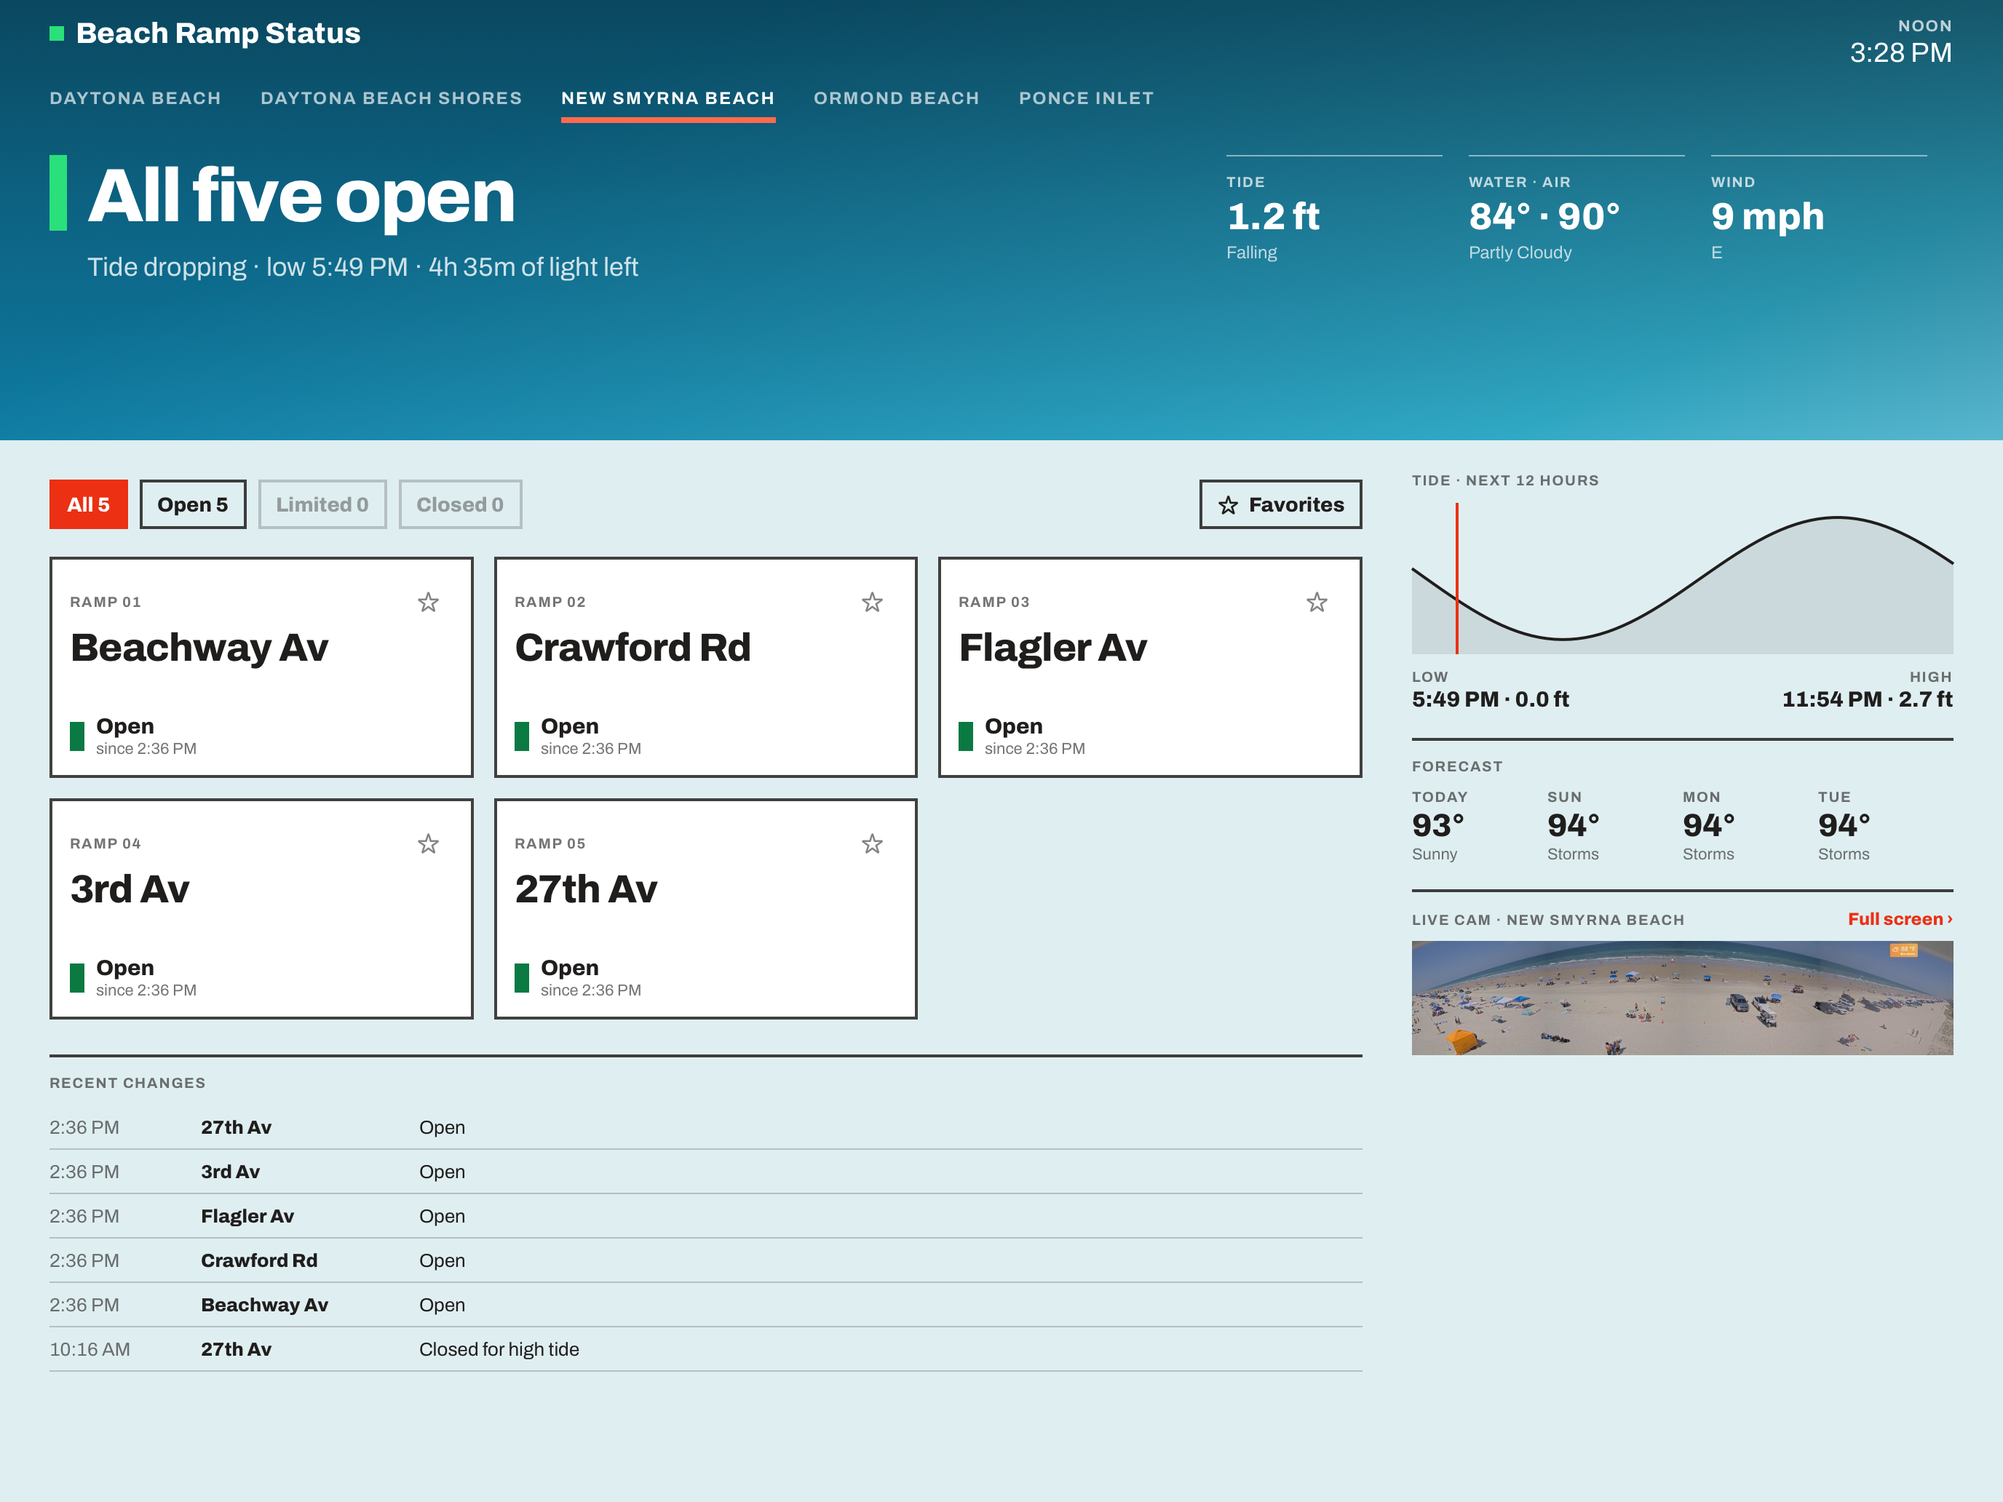
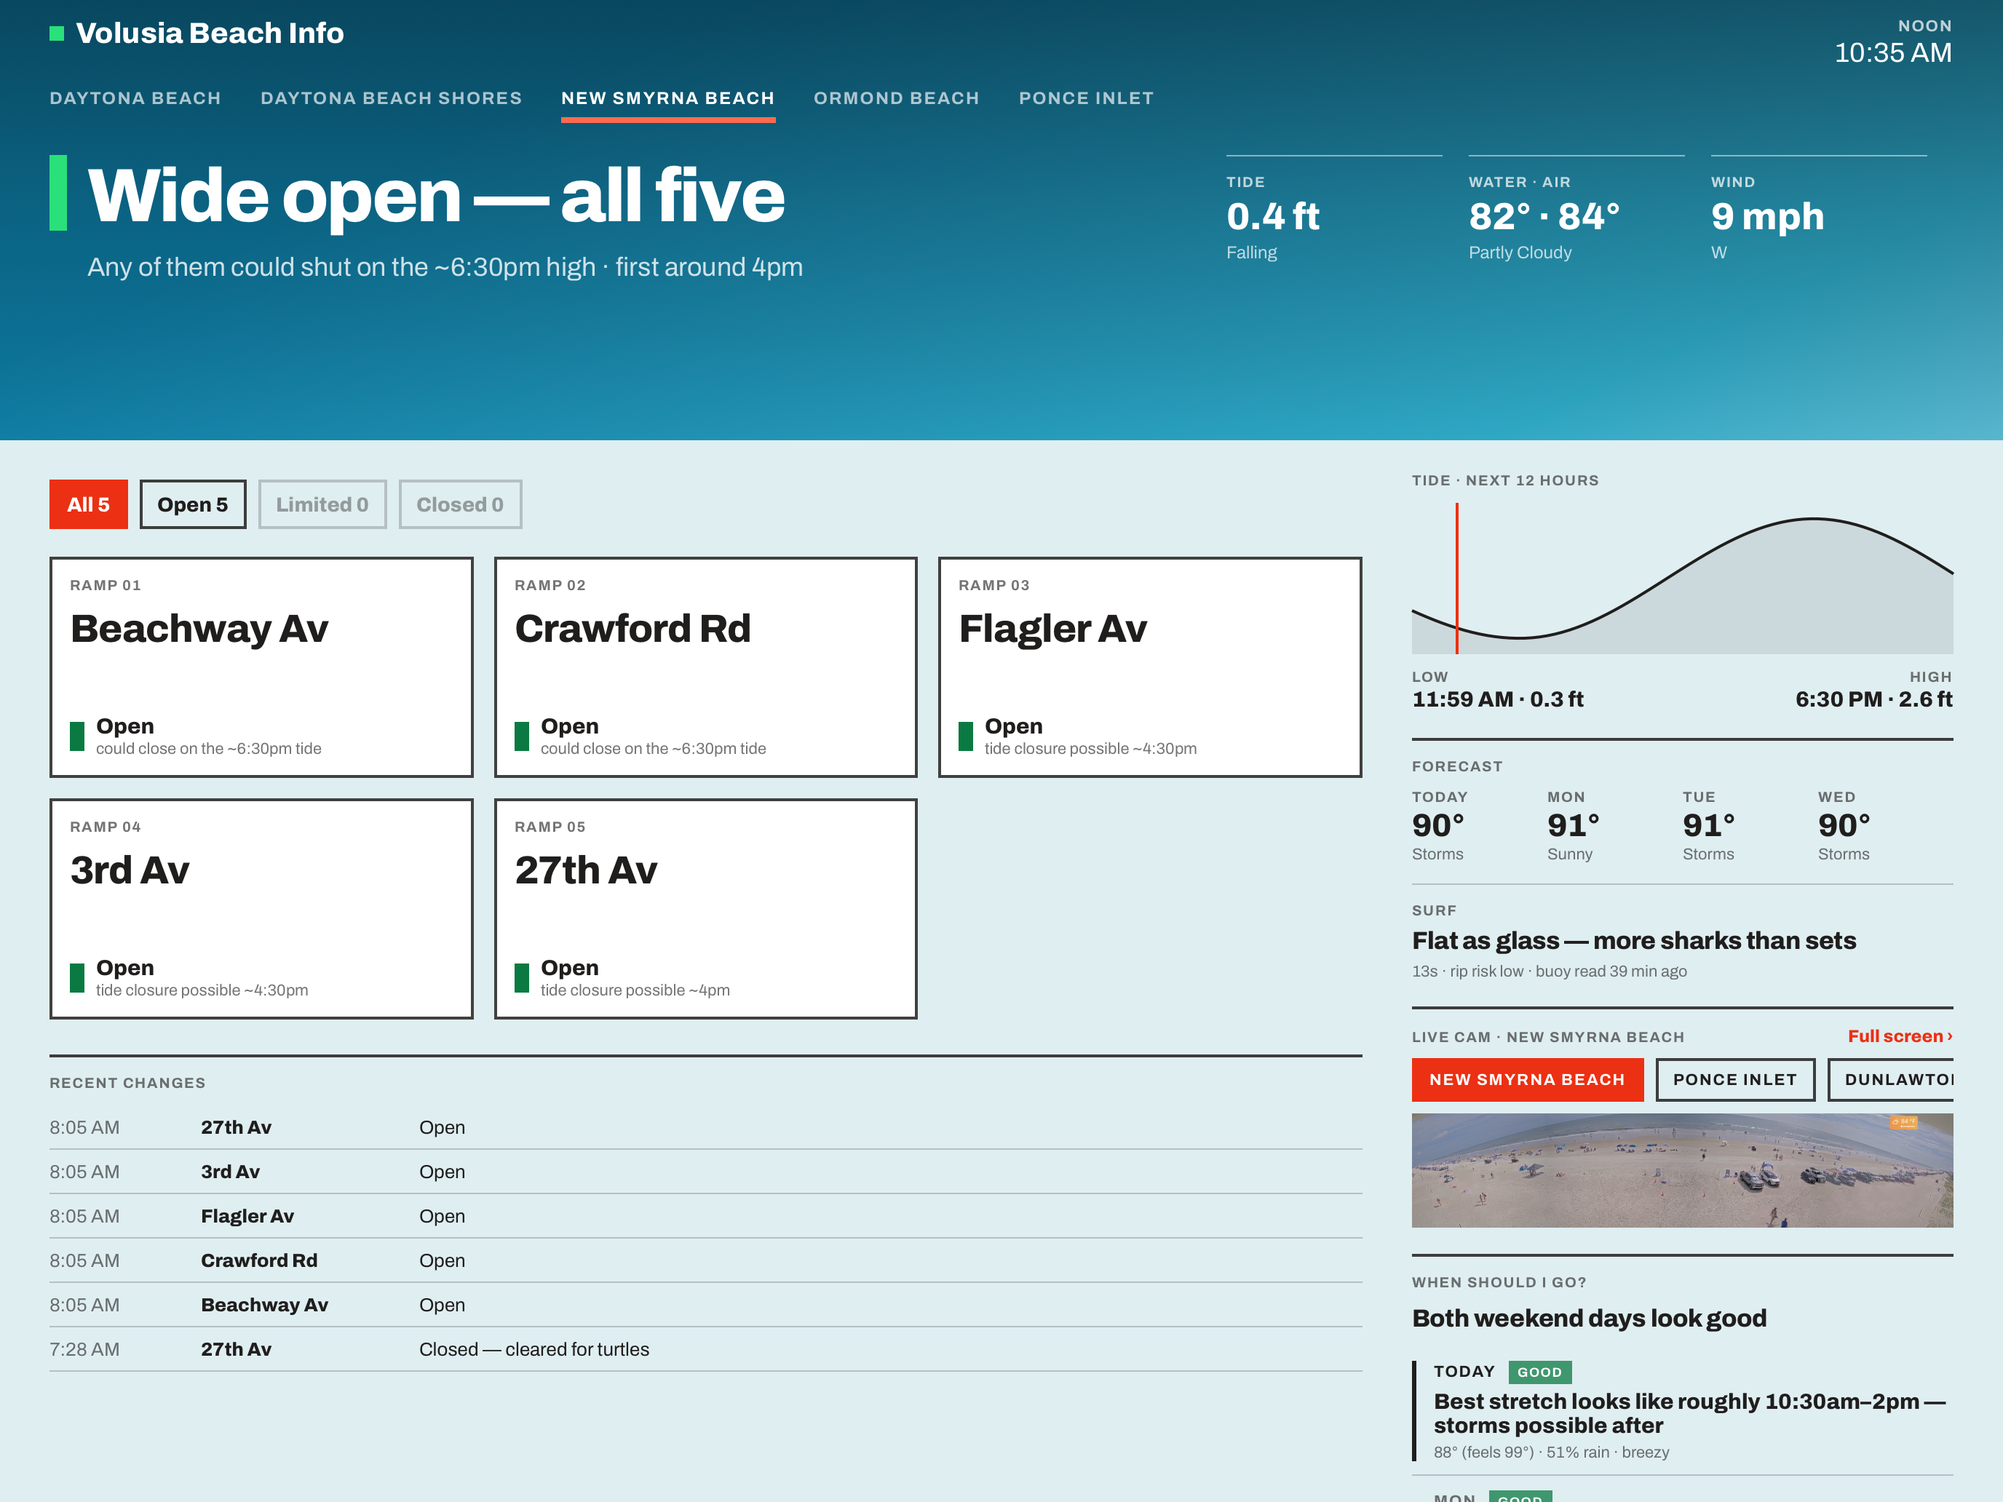
Recapture store screenshots; correct the iOS review state
All eight store shots recaptured from the renamed build — iPhone 6.9 (day,
golden, dawn), iPad 13 (wide, portrait), Apple TV (board, outlook, ramp
detail). They carry the "Volusia Beach Info" wordmark, and the iPad set
also loses the Favorites button that was pulled on 8/21.

Correction, from Don's ASC screenshot: iOS has NEVER been approved. ASC
reads "iOS 1.0 Waiting for Review" / "tvOS 1.1 Ready for Distribution", so
the 8/21 inference that 1.0 was approved held for tvOS only — pre-release
trains are per-platform and the rejection that revealed it was a tvOS
upload. This repo has been recording iOS 1.0 (18) as approved/live since;
it is not, and nothing of this app is public on iPhone yet.

That has teeth for submission: an ASC version numbered 1.0 can only carry a
build whose CFBundleShortVersionString is 1.0, so builds 26/27/28 cannot
attach to the pending 1.0. Either 1.0 ships build 18 as-is, or it comes out
of review and goes back of the queue as 1.2. Both paths are written up in
docs/APP-STORE-LISTING.md, including which screenshot set each one needs.

Also hardens screenshots.sh. The iPad rotate step clicks a Simulator window
by title prefix but captures by udid, so with two iPad sims booted it
rotated the stale one, the target never turned, and the w<h counter-rotation
produced a correctly-sized file with the board lying on its side — which no
dimension check catches. That is exactly what the first run of this pass
[…]

diff --git a/PORTFOLIO-STATUS.md b/PORTFOLIO-STATUS.md
@@ -21,8 +21,18 @@ app_review_state: |
   and BOTH platforms re-flighted under 1.2 to carry the "Volusia Beach Info" rename.
   iOS 1.1 (27) had already uploaded successfully minutes earlier and is now a dead
   build — ignore it in TestFlight.
-  iOS: 1.0 (18) is what is approved/live; 1.1 was uploaded but never submitted, so the
-  iOS listing still shows the build-18 design. The iOS rename ships as 1.2.
+  iOS has NEVER been approved. CONFIRMED IN ASC by Don 2026-08-23 (screenshot):
+  "iOS 1.0 Waiting for Review" / "tvOS 1.1 Ready for Distribution". The 2026-08-21
+  inference that "1.0 (18) is approved" was TRUE ONLY FOR tvOS — pre-release trains
+  are per-platform, and the rejection that revealed it was a tvOS upload. iOS 1.0 (18)
+  has sat in the initial-review queue since 2026-08-18; Apple's first-review queue is
+  badly backed up right now. Nothing of this app is public on iOS yet.
+  CONSEQUENCE, and it is not small: the ASC iOS version record says 1.0, so it can only
+  carry a build whose CFBundleShortVersionString is 1.0 — i.e. build 18. Builds 26, 27,
+  and 28 (1.1/1.2) CANNOT attach to the pending 1.0 submission. If 1.0 is left in the
+  queue it ships the pre-parity, pre-rename build-18 app. Changing it to 1.2 means
+  pulling from review and going to the back of the initial-review queue. Don's call —
+  see open item 0.
   Don notes initial review queues are slow right now (submission volume).
   How we learned 1.0 was approved: 2026-08-21 08:37 ET the tvOS TestFlight upload of 1.0 (25) was
   REJECTED by App Store Connect with "CFBundleShortVersionString [1.0] must contain a
@@ -30,7 +40,8 @@ app_review_state: |
   Pre-Release Train. The train version '1.0' is closed for new build submissions" —
   i.e. Apple has approved version 1.0 (build 18). NOT YET CONFIRMED in ASC by a human:
   Don confirmed 2026-08-21: 1.0 (18) is the only thing Apple has approved — the
-  design that has since been replaced. Submitted 1.1 (25) the same morning (above).
+  design that has since been replaced. NOTE (2026-08-23): that approval was the
+  tvOS 1.0 train only; iOS 1.0 is still Waiting for Review. See above. Submitted 1.1 (25) the same morning (above).
   Consequence already acted on: MARKETING_VERSION is now 1.1 and build
   25 went up under 1.1; every future flight is a 1.1 build. The App Store listing still
   shows the build-18 design (pre-video-first) — the TV screenshots trail by four designs
@@ -50,7 +61,7 @@ app_review_state: |
   watchOS: out of scope for 1.0 — target builds but is excluded from the iOS archive.
 mission_dates: |
   none found — no deadlines in REQUIREMENTS.md, README, or intake dossier
-last_verified: 2026-08-23 10:28 (RELEASE: 1.2 (28) UPLOADED to TestFlight for BOTH iOS and tvOS, both EXPORT SUCCEEDED, tagged flight/build-28. 1.2 listing copy drafted in docs/APP-STORE-LISTING.md. Screenshots still show the pre-rename header — recapture before submitting. RELEASE: tvOS 1.1 (25) is APPROVED — surfaced by the closed-train rejection when flighting, Don to confirm in ASC. MARKETING_VERSION 1.1 → 1.2; both platforms flighted as 1.2 (28) with the rename. NAMING: one-name pass done — "Volusia Beach Info" is now the name on every surface (web title/wordmark/manifest/per-view titles, /county page, iOS + iPadOS + tvOS in-app wordmark, TRMNL template headers, README/REQUIREMENTS/CLAUDE.md). tvOS header band dropped the "Volusia County" subtitle at Don's direction — the wordmark stands alone and that space is reserved for something else. INFOPLIST_KEY_CFBundleDisplayName = "Beach Info" (Don's call — the full 18-char name truncates under the icon); verified in the built Info.plist. iOS/tvOS/watch all BUILD SUCCEEDED, go vet + server tests pass, web verified in-browser. Widget gallery entries renamed off the old app name to "Ramp Board" / "Ramps Open Now" (intent title "Ramp Widget") — Don to veto if unwanted. Apple changes need a flight to reach devices; sw CACHE_NAME v24→v25 and ?v=16→17 bumped for web. API: period-aware rough regime DEPLOYED 7f44672 and verified live — today's buoy 1.31 ft @ 13 s now reads `rough`, NS-141/110/118 "closure possible ~4–4:30pm", NS-106/DBS-075 "could close ~6:30pm" — the same sea state that read quiet yesterday. Review scorecards ~8/30; fallback if over-hedging = "disqualify calm" variant. API: grade-aware shift scans SHIPPED 3312421, prod force-retrained 13:38Z at Don's direction — calm raise 0.45, NS-141/118/110 open-yesterday raise 0.4; today's outlook flipped from "tide closure possible ~3:30pm" to "closes for the day ~6:30pm" on every NS/DBS ramp. First real test: tomorrow's scorecard for 2026-08-22. iOS/iPadOS 1.1 (26) UPLOADED to TestFlight at Don's direction — ASC processing; the iOS 1.1 listing draft (What's New + redrafted description) is in docs/APP-STORE-LISTING.md, ready to paste once the build appears; Don action: submit the iOS 1.1 version in ASC. Web: server city verdict + overnight override deployed; city headline bug fixed server-side; favorites pulled from web, iOS keeps "Pin to widget" only. tvOS 1.1 (25) SUBMITTED for review — see app_review_state. Physical-remote pass on build 24 found one bug: Don
+last_verified: 2026-08-23 10:40 (CORRECTION: iOS has NEVER been approved — ASC screenshot from Don shows "iOS 1.0 Waiting for Review" / "tvOS 1.1 Ready for Distribution". The 8/21 "1.0 approved" read was tvOS-only (trains are per-platform). The pending iOS 1.0 record can only carry build 18, so builds 26/27/28 cannot attach to it — see open item 0 for the fork. SCREENSHOTS: all 8 store shots recaptured 2026-08-23 from the renamed build (iPhone 6.9 x3, iPad 13 x2, Apple TV x3), each verified by eye. RELEASE: 1.2 (28) UPLOADED to TestFlight for BOTH iOS and tvOS, both EXPORT SUCCEEDED, tagged flight/build-28. 1.2 listing copy drafted in docs/APP-STORE-LISTING.md. Screenshots still show the pre-rename header — recapture before submitting. RELEASE: tvOS 1.1 (25) is APPROVED — surfaced by the closed-train rejection when flighting, Don to confirm in ASC. MARKETING_VERSION 1.1 → 1.2; both platforms flighted as 1.2 (28) with the rename. NAMING: one-name pass done — "Volusia Beach Info" is now the name on every surface (web title/wordmark/manifest/per-view titles, /county page, iOS + iPadOS + tvOS in-app wordmark, TRMNL template headers, README/REQUIREMENTS/CLAUDE.md). tvOS header band dropped the "Volusia County" subtitle at Don's direction — the wordmark stands alone and that space is reserved for something else. INFOPLIST_KEY_CFBundleDisplayName = "Beach Info" (Don's call — the full 18-char name truncates under the icon); verified in the built Info.plist. iOS/tvOS/watch all BUILD SUCCEEDED, go vet + server tests pass, web verified in-browser. Widget gallery entries renamed off the old app name to "Ramp Board" / "Ramps Open Now" (intent title "Ramp Widget") — Don to veto if unwanted. Apple changes need a flight to reach devices; sw CACHE_NAME v24→v25 and ?v=16→17 bumped for web. API: period-aware rough regime DEPLOYED 7f44672 and verified live — today's buoy 1.31 ft @ 13 s now reads `rough`, NS-141/110/118 "closure possible ~4–4:30pm", NS-106/DBS-075 "could close ~6:30pm" — the same sea state that read quiet yesterday. Review scorecards ~8/30; fallback if over-hedging = "disqualify calm" variant. API: grade-aware shift scans SHIPPED 3312421, prod force-retrained 13:38Z at Don's direction — calm raise 0.45, NS-141/118/110 open-yesterday raise 0.4; today's outlook flipped from "tide closure possible ~3:30pm" to "closes for the day ~6:30pm" on every NS/DBS ramp. First real test: tomorrow's scorecard for 2026-08-22. iOS/iPadOS 1.1 (26) UPLOADED to TestFlight at Don's direction — ASC processing; the iOS 1.1 listing draft (What's New + redrafted description) is in docs/APP-STORE-LISTING.md, ready to paste once the build appears; Don action: submit the iOS 1.1 version in ASC. Web: server city verdict + overnight override deployed; city headline bug fixed server-side; favorites pulled from web, iOS keeps "Pin to widget" only. tvOS 1.1 (25) SUBMITTED for review — see app_review_state. Physical-remote pass on build 24 found one bug: Don
   loved the layout but could not focus the ramp list — Watching and Beach outlook
   focused fine. Cause: after the turtle-season close the ledger swapped the ramp
   list for an "Overnight · All cities" roll-up that was built non-focusable, so
@@ -238,7 +249,7 @@ prior_2026_08_18: (SUBMITTED FOR APP REVIEW — build 1.0 (18), first submission
 ---
 
 ## Top open items
-0. App Store — tvOS 1.1 (25) APPROVED (learned 2026-08-23 via the closed-train rejection; Don to confirm in ASC). iOS is still on 1.0 (18) approved — 1.1 was uploaded, never submitted. BOTH platforms flighted as 1.2 (28) on 2026-08-23 carrying the "Volusia Beach Info" rename. DON ACTION: submit 1.2 on both tracks — the 1.2 listing copy is drafted and measured in docs/APP-STORE-LISTING.md (iOS 1.2 What's New 1306 chars, tvOS 621, limit 4000; descriptions carry over from the 1.1 drafts unchanged). Note the iOS What's New spans 1.0 → 1.2 because 1.1 was never submitted. BLOCKER-ISH: every checked-in screenshot set predates the rename and shows "Beach Ramp Status" in the header — mismatched against the binary on both tracks, and name proximity to the county app is already the flagged 4.1/2.3.8 risk. Recapture with apple/scripts/screenshots.sh before submitting.
+0. App Store — tvOS 1.1 (25) APPROVED (learned 2026-08-23 via the closed-train rejection; Don to confirm in ASC). iOS has NEVER been approved — ASC shows "iOS 1.0 Waiting for Review" (confirmed by Don 2026-08-23); the 8/21 "1.0 approved" read was tvOS-only.  BOTH platforms flighted as 1.2 (28) on 2026-08-23 carrying the "Volusia Beach Info" rename. DON ACTION: submit 1.2 on both tracks — the 1.2 listing copy is drafted and measured in docs/APP-STORE-LISTING.md (iOS 1.2 What's New 1306 chars, tvOS 621, limit 4000; descriptions carry over from the 1.1 drafts unchanged). Note the iOS What's New spans 1.0 → 1.2 because 1.1 was never submitted. BLOCKER-ISH: every checked-in screenshot set predates the rename and shows "Beach Ramp Status" in the header — mismatched against the binary on both tracks, and name proximity to the county app is already the flagged 4.1/2.3.8 risk. Recapture with apple/scripts/screenshots.sh before submitting.
    Metadata as submitted is checked in at docs/APP-STORE-LISTING.md; /privacy and
    /support are live and verified. Screenshots done for iPhone 6.9", iPad 13", and
    Apple TV (3840x2160, design/app-store-screenshots/appletv/). If review comes back

diff --git a/docs/APP-STORE-LISTING.md b/docs/APP-STORE-LISTING.md
@@ -265,11 +265,28 @@ Promotional text, keywords, URLs, copyright: unchanged from tvOS 1.0.
 
 ## Version metadata — iOS / iPadOS 1.2 (build 28, drafted 2026-08-23)
 
-**This is the one to submit on the iOS track.** Read the delta carefully: iOS is
-still live on **1.0 (18)**. The 1.1 parity build was uploaded twice (26 on 8/21,
-27 on 8/23) and never submitted, so from a customer's point of view 1.2 carries
-*everything* since 1.0 — the whole parity pass **and** the rename. That is why the
-What's New below is the 1.1 draft plus two lines, not a rename note on its own.
+**Read this before pasting anything on the iOS track.** ASC on 2026-08-23 shows
+**"iOS 1.0 Waiting for Review"** — iOS has never been approved and nothing of this
+app is public on iPhone yet. (The 8/21 "1.0 is approved" reading was tvOS-only;
+pre-release trains are per-platform and the rejection that revealed it was a tvOS
+upload.) 1.0 (18) has been in the initial-review queue since 8/18.
+
+That creates a fork, because an ASC version record numbered 1.0 can only carry a
+build whose `CFBundleShortVersionString` is 1.0 — build 18. **Builds 26, 27, and 28
+cannot attach to the pending 1.0 submission.** So either:
+
+- **Leave 1.0 in the queue.** Keeps a five-day-old place in a badly backed-up
+  initial-review line, but the first public iOS release is build 18: the pre-parity
+  design, the old "Beach Ramp Status" wordmark, no weekend outlook, no surf line.
+  The gallery must then keep the *old* screenshots, which match build 18.
+- **Pull 1.0 from review, renumber the version to 1.2, attach build 28, resubmit.**
+  First impression is the current app with the right name, and the new screenshots
+  fit — at the cost of going to the back of the initial-review queue.
+
+The What's New below is written for the second path. It carries *everything* since
+1.0, because 1.1 was never submitted — the 1.1 draft plus two lines, not a rename
+note on its own. If you take the first path instead, this section waits until 1.0
+clears and then ships immediately after.
 
 Also folded in: the closure outlook got materially better between 8/21 and 8/23
 (persistence prior, grade-aware shift scans, period-aware wave regime). That work
@@ -327,19 +344,22 @@ Ramp status still comes straight from the county's feed, refreshed every minute.
 Unchanged from the 1.1 draft above (§"Description (redrafted for 1.1)" under tvOS
 1.1). Promotional text, keywords, URLs, copyright: unchanged from tvOS 1.0.
 
-### Screenshots — CHECK BEFORE SUBMITTING
+### Screenshots
 
-Every checked-in screenshot set predates the rename, so the header in them reads
-"Beach Ramp Status · Volusia County" while the app now reads "Volusia Beach Info".
-That is a visible mismatch between the gallery and the binary on both tracks:
+**Recaptured 2026-08-23** from the renamed build, all eight verified by eye:
 
-- `design/app-store-screenshots/appletv/` — captured 2026-08-21 from build 25.
-- iPhone 6.9" and iPad 13" sets — older still.
+- `iphone-6.9/` — 01 day, 02 golden, 03 dawn (1320×2868)
+- `ipad-13/` — 01 wide, 02 portrait (2752×2064 / 2064×2752)
+- `appletv/` — 01 board, 02 outlook, 03 ramp detail (3840×2160)
 
-Apple does not reliably reject for this, but a reviewer comparing the two will see
-a different name on the screen than on the listing, and name proximity to the
-county's app is already the flagged risk for this listing (guideline 4.1/2.3.8).
-Recapturing is `apple/scripts/screenshots.sh` (`tv` platform for Apple TV).
+They show the "Volusia Beach Info" wordmark, and the iPad set also drops the
+Favorites button that was pulled on 8/21 — the old set still had it.
+
+**If you take the "leave iOS 1.0 in the queue" path above, do NOT upload the new
+iPhone/iPad shots to that version.** They show build 28; the 1.0 submission ships
+build 18, and the matching pre-rename set is in git at `ff145fc`
+(`git show ff145fc:design/app-store-screenshots/iphone-6.9/01-board-day.png`).
+The Apple TV set is unaffected — tvOS submits 1.2 with build 28 either way.
 
 ---
 
